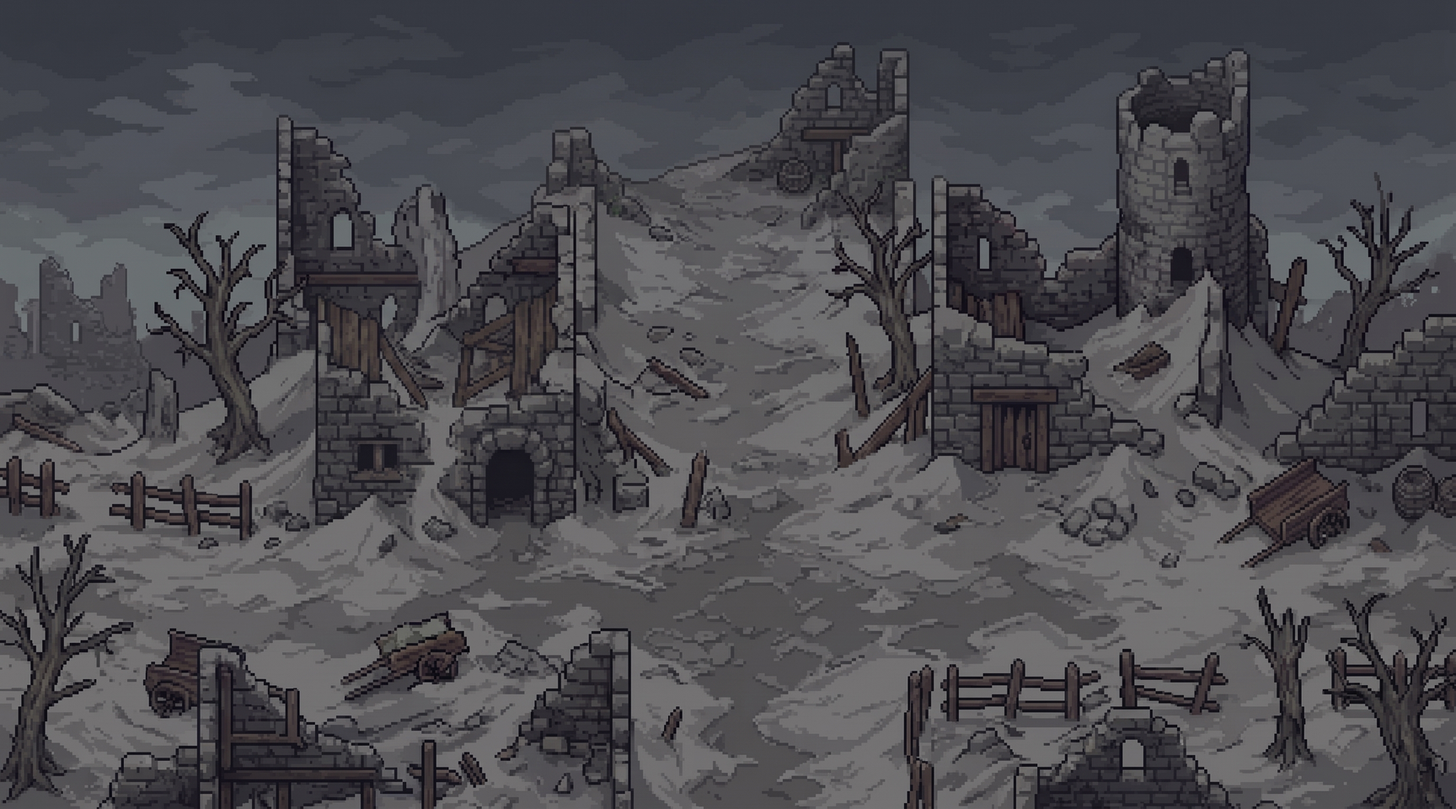
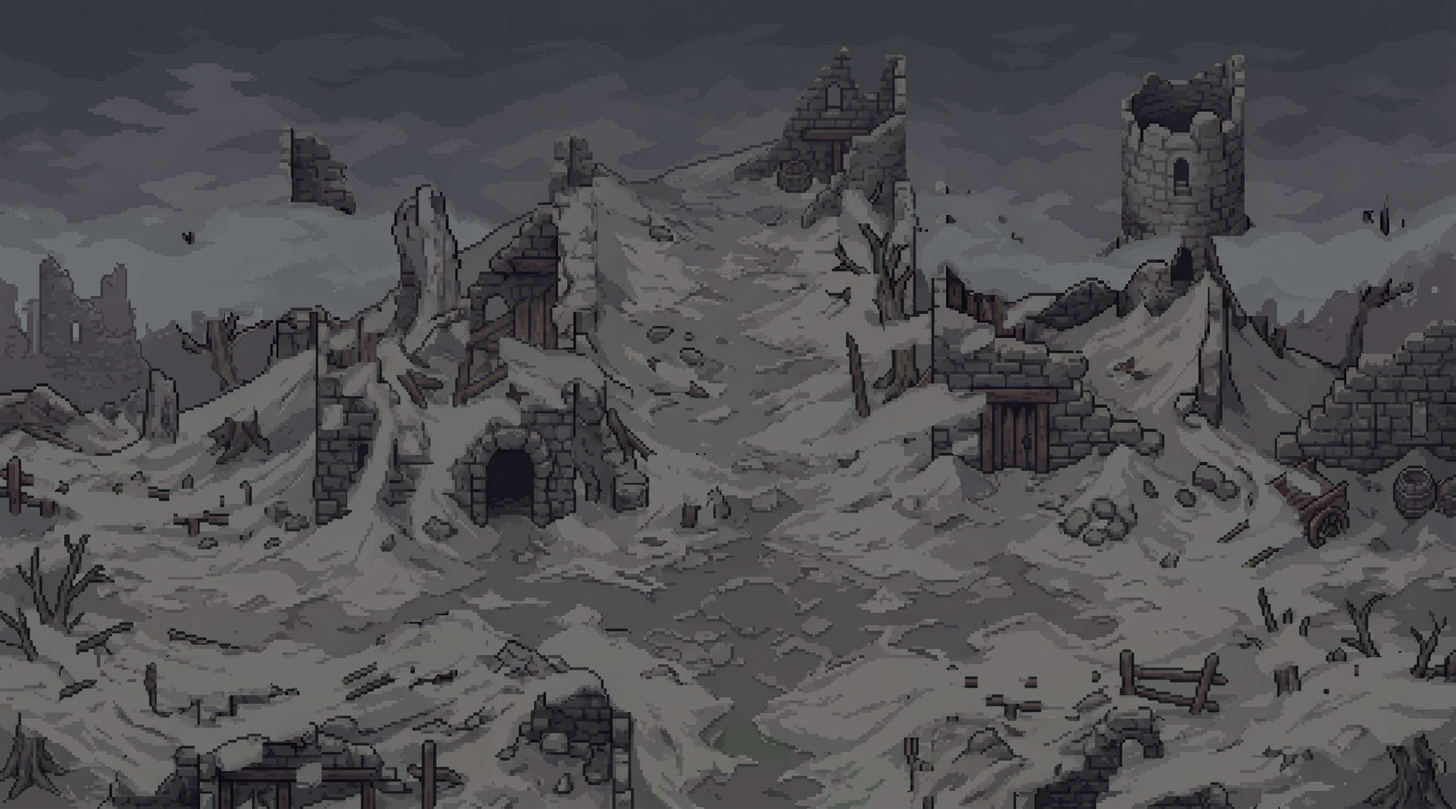
v0.5 — Kül Ovası iki katmandan yeniden kuruldu, Yıkık Ev, ani düşüş
Dış dünya artık elle çizilmiş "+" yollar değil: zemin ve yeşil fonlu prop
katmanı geldiği için çarpışma doğrudan propların alfasından çıkarıldı (108
dikdörtgen, 1134/1620 yürünebilir karo). Yıkıntılar, çitler, ölü ağaçlar
görünen duvarlar; can erimesi de kenarları hissettirmeden sınırlıyor.

yesil_kaldir.py fon rengini KENARDAN okuyordu; bu sayfada kenarlar gökyüzü
olduğu için fonu "koyu gri" sandı ve hiçbir şey temizlenmedi. Artık anahtar
rengi görselin güçlü yeşil piksellerinden ölçülüyor - sığınak sayfasında da
aynı sonucu veriyor.

mekan_kur.py kare parça varsayıyordu ve 16:9 sahneyi 960x960'a sıkıştırıyordu;
parça yüksekliği artık dışarıdan geliyor. Ufuk açılı sahnelerde üstteki gökyüzü
parlaklık testinde "zemin" çıktığı için GOK ile baştan kesiliyor.

Kemerli yıkık kapı girilebilir: arkasında Yıkık Ev var - kül giremediği için
can erimiyor, sandık ödül olarak kondu. Kendi karo seti olmadığından sarnıcın
taş setini ödünç alıyor.

Uçurum sınırları göz kararıyla değil, üstüne yeşil boyanmış referanstan ölçüldü
(21,11)-(27,19). Düşüş 0.9 sn'den 0.5'e indi ve sprite küpsel eğriyle siliniyor:
karakter bir anda kayboluyor.

İkonlar büyütüldü, kalp yerine mevcut iksir ikonu kondu. Sandık, uyku ve
konuşma için üç ikon daha üretildi (3 üretim); konuşma balonu ilk turda düz bir
yuvarlak çıkmıştı, "beyaz, yüksek kontrast" tarifiyle düzeldi.

diff --git a/app/page.tsx b/app/page.tsx
@@ -54,10 +54,10 @@ export default function Home(){
  return <main className="game-shell" aria-label="Kül ve Yemin mobil rol yapma oyunu">
   <canvas ref={canvas} className="world" aria-label={`${ZONES[s.zone].name} oyun alanı`}/><div className="vignette"/>
   {menu?<section className="title-screen"><div className="title-content"><div className="chapter-label"><span/> BİR YERALTI HİKÂYESİ <span/></div><h1>KÜL <i>ve</i> YEMİN</h1><p className="title-sub">Bazı kapılar bir seçimle açılır.</p><div className="menu-buttons">{hasSave?<><button className="primary" disabled={!snapshot.ready} onClick={()=>launch()}><Play size={19} fill="currentColor"/> Yolculuğa devam et <ChevronRight size={19}/></button><button onClick={()=>setConfirmNew(true)} disabled={!snapshot.ready}><Plus size={19}/> Yeni yolculuk</button></>:<button className="primary" onClick={()=>launch(true)} disabled={!snapshot.ready}><Play size={19} fill="currentColor"/>{snapshot.ready?'Yolculuğa başla':'Dünya hazırlanıyor…'}<ChevronRight size={19}/></button>}<div className="menu-secondary"><button onClick={()=>openPanel('settings')}><Settings2 size={18}/> Ayarlar</button><button onClick={()=>openPanel('help')}><BookOpen size={18}/> Rehber</button></div></div></div><footer><button onClick={()=>openPanel('credits')}>BÖLÜM I · SON SIĞINAK</button><span><Smartphone size={15}/> YATAY · DOKUNMATİK</span></footer></section>:<>
-  <header className="hud"><button className="hero-badge" onClick={()=>openPanel('character')} aria-label="Karakter ve yetenekler"><Portrait/><div><b>Gezgin <small>SV. {s.level}</small>{s.points>0&&<em>+{s.points}</em>}</b><div className="health"><span style={{width:`${s.hp/st.maxHp*100}%`}}/></div><div className="hp-row"><small>{Math.ceil(s.hp)} / {st.maxHp}</small><small className="gold"><Coins size={12}/>{s.gold}</small></div><div className="xp-bar"><span style={{width:`${s.level===5?100:(s.xp-XP[s.level-1])/(XP[s.level]-XP[s.level-1])*100}%`}}/></div></div></button><div className="zone-title">{ZONES[s.zone].name}<small>{ZONES[s.zone].danger}</small></div><nav className="hud-nav" aria-label="Oyun menüleri"><button onClick={()=>openPanel('inventory')} aria-label="Heybeyi aç"><UI ad="canta" size={24}/></button><button onClick={()=>openPanel('journal')} aria-label="Görevler ve harita"><UI ad="rulo" size={24}/></button><button onClick={()=>openPanel('pause')} aria-label="Oyunu duraklat"><Pause size={20}/></button></nav></header>
+  <header className="hud"><button className="hero-badge" onClick={()=>openPanel('character')} aria-label="Karakter ve yetenekler"><Portrait/><div><b>Gezgin <small>SV. {s.level}</small>{s.points>0&&<em>+{s.points}</em>}</b><div className="health"><span style={{width:`${s.hp/st.maxHp*100}%`}}/></div><div className="hp-row"><small>{Math.ceil(s.hp)} / {st.maxHp}</small><small className="gold"><Coins size={12}/>{s.gold}</small></div><div className="xp-bar"><span style={{width:`${s.level===5?100:(s.xp-XP[s.level-1])/(XP[s.level]-XP[s.level-1])*100}%`}}/></div></div></button><div className="zone-title">{ZONES[s.zone].name}<small>{ZONES[s.zone].danger}</small></div><nav className="hud-nav" aria-label="Oyun menüleri"><button onClick={()=>openPanel('inventory')} aria-label="Heybeyi aç"><UI ad="canta" size={27}/></button><button onClick={()=>openPanel('journal')} aria-label="Görevler ve harita"><UI ad="rulo" size={27}/></button><button onClick={()=>openPanel('pause')} aria-label="Oyunu duraklat"><Pause size={20}/></button></nav></header>
   {activeQuest&&<button className="quest-hint" onClick={()=>openPanel('journal')}><b><span className="quest-diamond">◆</span>{activeQuest.active?activeQuest.title:'İlk ışık'}</b><span>{!activeQuest.active?'Sığınaktakilerle konuş.':s.zone==='haven'?'Ayrıntılar için dokun.':activeQuest.id==='core'?'Kül kalbini bul.':'Görevini haritada takip et.'}</span></button>}
   {snapshot.tonic>0&&<div className="tonic-badge"><Flame size={15}/> +8 saldırı · {Math.ceil(snapshot.tonic)} sn</div>}
-    {!panel&&<><Joystick engine={engine}/><div className="actions"><div className="utility-actions"><button className="round potion" onClick={(e)=>{(e.currentTarget as HTMLElement)?.blur();engine.current?.useItem('potion');}} aria-label={`Can iksiri iç, ${s.inventory.potion||0} adet`} disabled={!s.inventory.potion}><UI ad="kalp" size={26}/><small>{s.inventory.potion||0}</small></button><button className="round weapon" onClick={(e)=>{(e.currentTarget as HTMLElement)?.blur();engine.current?.toggleWeapon();}} aria-label="Silah değiştir"><Icon name="sword" item={s.equipment.weapon} size={24}/><small>{s.equipment.weapon==='bow'?`YAY (${s.inventory.arrow||0})`:'KILIÇ'}</small></button><button className="round dodge" onClick={(e)=>{(e.currentTarget as HTMLElement)?.blur();engine.current?.dodge();}} aria-label="Kaçın" disabled={snapshot.dodgeCooldown>0}><Wind size={25}/>{snapshot.dodgeCooldown>0&&<small>{snapshot.dodgeCooldown.toFixed(1)}</small>}</button></div><button className="round attack" aria-label="Saldır, basılı tutarak tekrarla" onPointerDown={e=>{e.currentTarget.setPointerCapture(e.pointerId);if(engine.current)engine.current.input.attack=true;}} onPointerUp={()=>{if(engine.current)engine.current.input.attack=false;}} onPointerCancel={()=>{if(engine.current)engine.current.input.attack=false;}} onLostPointerCapture={()=>{if(engine.current)engine.current.input.attack=false;}}><UI ad="saldiri" size={32}/><span>SALDIR</span></button></div>{snapshot.near&&<button className="interact available" onClick={(e)=>{(e.currentTarget as HTMLElement)?.blur();engine.current?.interact();}}>{snapshot.near.type==='npc'?<MessageCircle size={18}/>:<Hand size={18}/>}<span>{snapshot.near.type==='npc'?`${snapshot.near.name} ile konuş`:snapshot.near.asset?.includes('Table')?'Zanaat masasını kullan':snapshot.near.name||'Aç'}</span></button>}</>}
+    {!panel&&<><Joystick engine={engine}/><div className="actions"><div className="utility-actions"><button className="round potion" onClick={(e)=>{(e.currentTarget as HTMLElement)?.blur();engine.current?.useItem('potion');}} aria-label={`Can iksiri iç, ${s.inventory.potion||0} adet`} disabled={!s.inventory.potion}><Icon name="flame" item="potion" size={34}/><small>{s.inventory.potion||0}</small></button><button className="round weapon" onClick={(e)=>{(e.currentTarget as HTMLElement)?.blur();engine.current?.toggleWeapon();}} aria-label="Silah değiştir"><Icon name="sword" item={s.equipment.weapon} size={32}/><small>{s.equipment.weapon==='bow'?`YAY (${s.inventory.arrow||0})`:'KILIÇ'}</small></button><button className="round dodge" onClick={(e)=>{(e.currentTarget as HTMLElement)?.blur();engine.current?.dodge();}} aria-label="Kaçın" disabled={snapshot.dodgeCooldown>0}><Wind size={25}/>{snapshot.dodgeCooldown>0&&<small>{snapshot.dodgeCooldown.toFixed(1)}</small>}</button></div><button className="round attack" aria-label="Saldır, basılı tutarak tekrarla" onPointerDown={e=>{e.currentTarget.setPointerCapture(e.pointerId);if(engine.current)engine.current.input.attack=true;}} onPointerUp={()=>{if(engine.current)engine.current.input.attack=false;}} onPointerCancel={()=>{if(engine.current)engine.current.input.attack=false;}} onLostPointerCapture={()=>{if(engine.current)engine.current.input.attack=false;}}><UI ad="saldiri" size={38}/><span>SALDIR</span></button></div>{snapshot.near&&<button className="interact available" onClick={(e)=>{(e.currentTarget as HTMLElement)?.blur();engine.current?.interact();}}>{snapshot.near.type==='npc'?<UI ad="konusma" size={22}/>:snapshot.near.type==='chest'?<UI ad="sandik" size={22}/>:snapshot.near.type==='yatak'?<UI ad="uyku" size={22}/>:<Hand size={18}/>}<span>{snapshot.near.type==='npc'?`${snapshot.near.name} ile konuş`:snapshot.near.asset?.includes('Table')?'Zanaat masasını kullan':snapshot.near.name||'Aç'}</span></button>}</>}
    <div className={`save-mark ${snapshot.saveStatus==='Kayıt yapılamadı'?'save-error':''}`}><Save size={12}/>{snapshot.saveStatus==='Kayıt yapılamadı'?'Kayıt yapılamıyor':'Cihaza otomatik kayıt'}</div>
    </>}
    {zoneFlash&&<div className="zone-flash" role="status" aria-live="polite">{zoneFlash}</div>}

diff --git a/lib/game/world.ts b/lib/game/world.ts
@@ -9,7 +9,8 @@ export type World={zone:Zone;w:number;h:number;tiles:number[][];entities:Entity[
  ucurumlar:[number,number,number,number][]};
 export function makeWorld(zone:Zone):World{
  const kare=zone==='haven'||zone==='magara';
- const w=zone==='disari'?54:kare?30:46,h=zone==='disari'?30:kare?30:48;
+ const w=zone==='disari'?54:zone==='yikik'?20:kare?30:46,
+  h=zone==='disari'?30:zone==='yikik'?16:kare?30:48;
  const tiles=Array.from({length:h},()=>Array<number>(w).fill(0));
  const room=(x:number,y:number,rw:number,rh:number)=>{for(let j=y;j<y+rh;j++)for(let i=x;i<x+rw;i++)tiles[j][i]=1};
  const entities:Entity[]=[],enemies:EnemySpec[]=[];
@@ -63,16 +64,23 @@ export function makeWorld(zone:Zone):World{
   entities.push({id:'yatak',type:'yatak',x:9.5*16,y:21.7*16,name:'Uyu'});
   chest('havenGift',14,22,[['copper',1],['bow',1],['arrow',25],['tonic',1]]);
   }else if(zone==='disari'){
-  // Kul Ovasi: siginakin ust kapisindan cikilan dis dunya. Yurunebilir alan
-  // ORTADA ARTI seklinde iki yol; gerisi kul. Kenarlara gorunmez duvar koymak
-  // yerine can hizla eriyor, yani oyuncu yolun sonunu goremeden geri donmek
-  // zorunda kaliyor - sinir hissettirilmeden konmus oluyor.
-  // Yollar genisletildi ve kavsak GIRISE yaklastirildi: onceki yerlesimde
-  // oyuncu daha kavsaga varmadan sag/sol kapali oluyordu, can da eridigi icin
-  // cogu zaman hic yatay yola cikamiyordu.
-  room(24,3,7,27);      // dikey kol (7 karo genis)
-  room(2,17,50,6);      // yatay kol (6 karo yuksek, girise 4 karo mesafede)
-  gecis(24,28,31,30,'haven',[15,4]);   // geldigin agiz: uzerine basinca geri
+  // Kul Ovasi: siginakin ust kapisindan cikilan dis dunya (54x30 karo).
+  // Zemin ve carpisma scripts/mekan_kur.py ile iki katmandan cikarildi:
+  // ZEMIN arka planin aydinlik bolgesinden (ustteki 9 satir gokyuzu, bastan
+  // kesildi), blockers prop katmaninin alfasindan. Kenarlara gorunmez duvar
+  // yok; can hizla eridigi icin oyuncu zaten uzaga gidemiyor.
+  const ZEMIN=['000000000000000000000000000000000000000000000000000000','000000000000000000000000000000000000000000000000000000','000000000000000000000000000000000000000000000000000000','000000000000000000000000000000000000000000000000000000','000000000000000000000000000000000000000000000000000000','000000000000000000000000000000000000000000000000000000','000000000000000000000000000000000000000000000000000000','000000000000000000000000000000000000000000000000000000','000000000000000000000000000000000000000000000000000000','111111111111111111111111111111111111111111111111111111','111111111111111111111111111111111111111111111111111111','111111111111111111111111111111111111111111111111111111','111111111111111111111111111111111111111111111111111111','111111111111111111111111111111111111111111111111111111','111111111111111111111111111111111111111111111111111111','111111111111111111111111111111111111111111111111111111','111111111111111111111111111111111111111111111111111111','111111111111111111111111111111111111111111111111111111','111111111111111111111111111111111111111111111111111111','111111111111111111111111111111111111111111111111111111','111111111111111111111111111111111111111111111111111111','111111111111111111111111111111111111111111111111111111','111111111111111111111111111111111111111111111111111111','111111111111111111111111111111111111111111111111111111','111111111111111111111111111111111111111111111111111111','111111111111111111111111111111111111111111111111111111','111111111111111111111111111111111111111111111111111111','111111111111111111111111111111111111111111111111111111','111111111111111111111111111111111111111111111111111111','111111111111111111111111111111111111111111111111111111'];
+  for(let j=0;j<h;j++)for(let i=0;i<w;i++)tiles[j][i]=ZEMIN[j][i]==='1'?1:0;
+  blockers.push([18,9,21,13],[31,9,34,10],[43,9,45,11],[15,10,16,12],[17,10,18,15],[32,10,36,12],[40,10,41,12],[42,10,43,12],[45,10,46,12],[51,10,52,12],[9,11,10,12],[11,11,12,14],[14,11,15,13],[21,11,22,13],[36,11,37,12],[39,11,40,12],[41,11,42,12],[50,11,51,18],[7,12,9,13],[10,12,11,13],[12,12,14,14],[24,12,25,13],[34,12,36,14],[37,12,39,18],[47,12,48,13],[52,12,54,19],[8,13,9,14],[15,13,16,15],[18,13,19,14],[25,13,26,14],[31,13,32,15],[33,13,34,15],[36,13,37,18],[39,13,40,18],[51,13,52,19],[12,14,13,19],[14,14,15,15],[16,14,17,15],[19,14,20,19],[21,14,22,16],[32,14,33,15],[35,14,36,17],[40,14,41,17],[49,14,50,20],[8,15,9,17],[13,15,14,18],[20,15,21,20],[22,15,23,19],[41,15,42,17],[48,15,49,20],[1,16,3,17],[9,16,10,17],[15,16,16,18],[17,16,19,19],[23,16,24,18],[34,16,35,17],[42,16,43,17],[47,16,48,18],[0,17,1,19],[11,17,12,20],[14,17,15,19],[21,17,22,19],[1,18,2,19],[26,18,27,19],[41,18,42,20],[45,18,46,19],[7,19,8,20],[10,19,11,20],[16,19,18,20],[25,19,26,20],[39,19,41,20],[2,20,3,23],[1,21,2,23],[3,21,4,22],[50,22,51,24],[0,23,1,24],[3,23,4,24],[41,24,43,28],[44,24,45,27],[52,24,54,25],[2,25,3,26],[5,25,6,26],[10,25,11,26],[13,25,14,26],[43,25,44,26],[47,25,48,26],[7,26,8,27],[19,26,23,27],[37,26,38,27],[0,27,2,29],[10,27,14,30],[19,27,20,28],[21,27,24,29],[33,27,34,28],[40,27,41,30],[52,27,53,30],[6,28,10,30],[14,28,17,29],[39,28,40,30],[41,28,42,29],[53,28,54,30],[0,29,1,30],[4,29,6,30],[14,29,16,30],[22,29,24,30],[38,29,39,30],[43,29,46,30],[51,29,52,30]);
+  gecis(24,29,31,30,'haven',[15,4]);   // geldigin agiz: uzerine basinca geri
+  // Kemerli yikik kapi: kulun disinda kalan tek kapali mekan.
+  at({id:'yikikKapi',type:'portal',x:19.2,y:19.6,to:'yikik',spawn:[10,13],name:'Yıkığa gir',asset:'gizli'});
+ }else if(zone==='yikik'){
+  // Kemerli kapinin ardindaki tek oda. Kul disarida kaldigi icin burada can
+  // erimiyor - Kul Ovasi'na cikmanin bir odulu olsun diye sandik kondu.
+  room(2,2,16,12);
+  at({id:'yikikCikis',type:'portal',x:10,y:13,to:'disari',spawn:[19,20],name:'Dışarı çık'});
+  chest('yikikSandik',10,4,[['guard',1],['potion',2],['wood',4]],45);
  }else if(zone==='magara'){
   // Sarnic Agzi: siginagin kapagindan inilen ilk karanlik. Tek parca boyali
   // sahne (public/assets/arkaplan/magara.png). Prop katmani YOK, o yuzden
@@ -86,7 +94,10 @@ export function makeWorld(zone:Zone):World{
   gecis(11,27,18,28,'cistern',[7,7]);    // alt tunel: sarnica devam
   // Sagdaki karanlik agiz bir UCURUM: gorselde zemin bitiyor, oraya yurursen
   // asagi dusersin. Karolar bilerek yurunebilir birakildi.
-  ucurum(20,12,25,21);
+  // Sinirlar goz karariyla degil, uzerine yesil boyanmis referanstan olculdu.
+  ucurum(21,11,27,19);
+  // Ucurumun agzina varabilmek icin odanin sag kenari oraya kadar aciliyor.
+  room(19,11,3,8);
  }else if(zone==='cistern'){
   room(3,3,11,11);room(5,12,4,24);room(3,29,12,12);room(12,33,22,4);room(28,27,14,15);room(32,12,4,20);room(27,3,15,12);room(12,6,19,4);room(17,18,9,9);room(8,21,12,3);room(22,23,12,3);
   at({id:'backHaven',type:'portal',x:6,y:5,to:'magara',spawn:[14,25],name:'Yukarı çık'});

diff --git a/lib/game/engine.ts b/lib/game/engine.ts
@@ -41,7 +41,10 @@ export class Engine{
   *  koymak yerine sure basinci var: yolun ucuna varmadan geri donmek gerekiyor. */
  static readonly KUL_HASAR=8;
  private dusus=0;
- static readonly DUSUS=0.9;
+ /** Dusus suresi. Once 0.9 sn'lik yumusak kucuIme vardi; istenen "bir anda
+  *  kaybolmak" oldugu icin kisaltildi ve sprite kupsel egriyle hizla siliniyor
+  *  - ilk 0.15 sn'de gorunmez oluyor, kalan sure olum ekranina gecis. */
+ static readonly DUSUS=0.5;
  private sonImza='';
  private sahneSayac=0;
  private dizSayac=0;private dizX=0;private dizY=0;
@@ -371,10 +374,11 @@ if(!walkable(this.world,s.x,s.y)){[s.x,s.y]=this.world.spawn;}this.camera={x:s.x
   const isFloor=(tx:number,ty:number)=>ty>=0&&ty<this.world.h&&tx>=0&&tx<this.world.w&&this.world.tiles[ty][tx]===1;const y0=Math.floor(cy/16)-1,y1=Math.ceil((cy+this.gorus.boy)/16)+2,x0=Math.floor(cx/16)-1,x1=Math.ceil((cx+this.gorus.en)/16)+2;
   // Dual-grid autotile: her cizilen karo dort dunya hucresinin kesistigi koseye ortalanir;
   // wang_N'de N = kose duvar maskesi (NW=8, NE=4, SW=2, SE=1), wang_0 tam zemin, wang_15 tam duvar.
-  for(let y=y0;y<y1;y++)for(let x=x0;x<x1;x++){const m=(isFloor(x-1,y-1)?0:8)|(isFloor(x,y-1)?0:4)|(isFloor(x-1,y)?0:2)|(isFloor(x,y)?0:1);const tile=this.images[`wang_${this.state.zone}_${m}`];if(tile?.naturalWidth)c.drawImage(tile,x*16-8,y*16-8,16,16);}
+  for(let y=y0;y<y1;y++)for(let x=x0;x<x1;x++){const m=(isFloor(x-1,y-1)?0:8)|(isFloor(x,y-1)?0:4)|(isFloor(x-1,y)?0:2)|(isFloor(x,y)?0:1);// Yikik Ev'in kendi karo seti yok; sarnicin tas setini oduncu aliyor, yoksa oda bombos cizilirdi.
+   const kz=this.state.zone==='yikik'?'cistern':this.state.zone;const tile=this.images[`wang_${kz}_${m}`];if(tile?.naturalWidth)c.drawImage(tile,x*16-8,y*16-8,16,16);}
   // Bolge tonu zeminde; zemine komsu olmayan duvarlar uzaklik hissi icin karartilir (doku gorunsun diye %50).
   for(let y=y0;y<y1;y++)for(let x=x0;x<x1;x++){if(isFloor(x,y)){c.fillStyle=this.state.zone==='forge'?'#21122118':'#10213310';c.fillRect(x*16,y*16,16,16);}else if(![[0,1],[0,-1],[-1,0],[1,0],[1,1],[-1,-1],[1,-1],[-1,1]].some(([dx,dy])=>isFloor(x+dx,y+dy))){c.fillStyle='#060a1280';c.fillRect(x*16,y*16,16,16);}}}
-  for(const e of this.world.entities){if(e.type==='portal'){this.sprite('portal',e.x,e.y,0,22,32);if(e.id==='returnHaven'&&!this.state.killed.includes('warden'))continue;const glow=c.createRadialGradient(e.x,e.y,1,e.x,e.y,22);glow.addColorStop(0,'#74c8ef30');glow.addColorStop(1,'#74c8ef00');c.fillStyle=glow;c.fillRect(e.x-22,e.y-22,44,44);this.label(e.name!,e.x,e.y+13,'#b6dbe9');}if(e.type==='trap')this.sprite('trap',e.x,e.y,this.trapActive(e)?4:0,17,17);}
+  for(const e of this.world.entities){if(e.type==='portal'){const gizli=e.asset==='gizli';if(!gizli)this.sprite('portal',e.x,e.y,0,22,32);if(e.id==='returnHaven'&&!this.state.killed.includes('warden'))continue;if(gizli){this.label(e.name!,e.x,e.y+13,'#c9bda4');continue;}const glow=c.createRadialGradient(e.x,e.y,1,e.x,e.y,22);glow.addColorStop(0,'#74c8ef30');glow.addColorStop(1,'#74c8ef00');c.fillStyle=glow;c.fillRect(e.x-22,e.y-22,44,44);this.label(e.name!,e.x,e.y+13,'#b6dbe9');}if(e.type==='trap')this.sprite('trap',e.x,e.y,this.trapActive(e)?4:0,17,17);}
   const actors:({y:number;draw:()=>void})[]=this.world.entities.filter(e=>e.type!=='portal'&&e.type!=='trap').map(e=>({y:e.y,draw:()=>{
    if(e.type==='decor'){this.sprite(e.asset!,e.x,e.y);if(e.name)this.label(e.name,e.x,e.y-20,'#dfc28e');return;}
    if(e.type==='fire'){this.sprite('fire',e.x,e.y,Math.floor(time*8)%8,32,32,false,e.s??1);return;}
@@ -390,8 +394,8 @@ if(!walkable(this.world,s.x,s.y)){[s.x,s.y]=this.world.spawn;}this.camera={x:s.x
   }}));
   for(const m of this.mobs)actors.push({y:m.y,draw:()=>{c.fillStyle='#04091270';c.beginPath();c.ellipse(m.x,m.y+1,(m.boss?13:8)*OYUNCU_OLCEK,2.6*OYUNCU_OLCEK,0,0,7);c.fill();if(m.windup>0){c.strokeStyle='#ef8766';c.lineWidth=1;c.beginPath();c.arc(m.x,m.y,m.boss?36:14,0,Math.PI*2);c.stroke();}const dx=this.state.x-m.x,dy=this.state.y-m.y;const dir=Math.abs(dx)>Math.abs(dy)?'S':dy<0?'U':'D';this.sprite(`enemies${m.kind}${dir}${m.windup>0?'Attack':m.hurt>0?'Hurt':'Walk'}`,m.x,m.y,Math.floor(time*7),32,32,dir==='S'&&dx<0,(m.boss?1.7:1)*OYUNCU_OLCEK);if(m.hp<m.max||m.boss){const w=m.boss?34:16;c.fillStyle='#190e18';c.fillRect(m.x-w/2,m.y-(m.boss?38:23),w,2);c.fillStyle='#ce7778';c.fillRect(m.x-w/2,m.y-(m.boss?38:23),w*m.hp/m.max,2);if(m.boss)this.label('KÜL BEKÇİSİ',m.x,m.y-43,'#efac8a');}}});
    actors.push({y:this.state.y,draw:()=>{const s=this.state;c.fillStyle='#02081280';c.beginPath();c.ellipse(s.x,s.y+1,8.5*OYUNCU_OLCEK,2.8*OYUNCU_OLCEK,0,0,7);c.fill();const action=this.slash>0?'Attack':this.moving&&!this.paused?'Walk':'Idle';// Dusus: sprite kucule kucule asagi kayiyor, boslugun icine iniyormus gibi.
-  const dk=this.dusus>0?this.dusus/Engine.DUSUS:1;
-  this.sprite(this.kit()+this.direction+action,s.x,s.y+(1-dk)*11,action==='Walk'?Math.floor(this.yol/Engine.ADIM):Math.floor(time*(action==='Attack'?16:5)),32,32,this.direction==='S'&&this.flip,OYUNCU_OLCEK*(.22+.78*dk),this.invulnerable>0&&Math.floor(time*18)%2===0?.45:1);if(this.slash>0){c.strokeStyle='#f5db9ac9';c.lineWidth=1.5;const angle=this.direction==='S'?(this.flip?Math.PI:0):this.direction==='U'?-Math.PI/2:Math.PI/2;c.beginPath();c.arc(s.x,s.y-5*OYUNCU_OLCEK,23*OYUNCU_OLCEK,angle-1.1,angle+1.1);c.stroke();}}});
+  const dk=this.dusus>0?Math.pow(this.dusus/Engine.DUSUS,3):1;
+  this.sprite(this.kit()+this.direction+action,s.x,s.y+(1-dk)*11,action==='Walk'?Math.floor(this.yol/Engine.ADIM):Math.floor(time*(action==='Attack'?16:5)),32,32,this.direction==='S'&&this.flip,OYUNCU_OLCEK*(.05+.95*dk),this.invulnerable>0&&Math.floor(time*18)%2===0?.45:1);if(this.slash>0){c.strokeStyle='#f5db9ac9';c.lineWidth=1.5;const angle=this.direction==='S'?(this.flip?Math.PI:0):this.direction==='U'?-Math.PI/2:Math.PI/2;c.beginPath();c.arc(s.x,s.y-5*OYUNCU_OLCEK,23*OYUNCU_OLCEK,angle-1.1,angle+1.1);c.stroke();}}});
   actors.sort((a,b)=>a.y-b.y).forEach(a=>a.draw());
   c.fillStyle=this.state.zone==='haven'?'#060e1924':'#070b1c42';c.fillRect(cx,cy,this.gorus.en,this.gorus.boy);
   for(const e of this.world.entities.filter(e=>e.type==='fire'||e.type==='core')){if(Math.abs(e.x-this.state.x)>230||Math.abs(e.y-this.state.y)>160)continue;const radius=48+Math.sin(time*3+e.x)*3;const glow=c.createRadialGradient(e.x,e.y-6,0,e.x,e.y-6,radius);glow.addColorStop(0,'#f7af3936');glow.addColorStop(.35,'#ee8e1815');glow.addColorStop(1,'#ee8e1800');c.fillStyle=glow;c.fillRect(e.x-radius,e.y-radius-6,radius*2,radius*2);}

diff --git a/lib/game/data.ts b/lib/game/data.ts
@@ -1,8 +1,8 @@
 /** Oyun surumu. Her yayina cikan degisiklikte 0.1 artar: 0.1, 0.2 ... 0.9,
  *  sonra 1.0, 1.1 diye devam eder. Ekranin sol altinda gorunur. */
-export const SURUM = '0.4';
+export const SURUM = '0.5';
 
-export type Zone = 'haven' | 'disari' | 'magara' | 'cistern' | 'forge';
+export type Zone = 'haven' | 'disari' | 'yikik' | 'magara' | 'cistern' | 'forge';
 export type ItemId = 'rusty'|'guard'|'ember'|'blood'|'bow'|'leather'|'chain'|'ash'|'copper'|'life'|'wind'|'potion'|'tonic'|'medicine'|'ledger'|'core'|'wood'|'torch'|'arrow';
 export type Item = {id:ItemId;name:string;kind:'weapon'|'armor'|'ring'|'consumable'|'quest';description:string;rarity:'Sıradan'|'Nadir'|'Eşsiz'|'Görev';icon:string;attack?:number;defense?:number;hp?:number;price:number};
 export const ITEMS:Record<ItemId,Item>={
@@ -26,7 +26,7 @@ export const ITEMS:Record<ItemId,Item>={
  ledger:{id:'ledger',name:'Kayıp defter',kind:'quest',description:'Sığınağın erzak kayıtları. Alf bunu bekliyor.',rarity:'Görev',icon:'book',price:0},
  core:{id:'core',name:'Kül kalbi',kind:'quest',description:'Sığınağın altında atan güç. Undur ne yapılacağını biliyor.',rarity:'Görev',icon:'gem',price:0},
 };
-export const ZONES:Record<Zone,{name:string;subtitle:string;danger:string}>={haven:{name:'Son Sığınak',subtitle:'Ateşin hâlâ yandığı yer',danger:'Güvenli bölge'},disari:{name:'Kül Ovası',subtitle:'Örtünün altında kalan dünya',danger:'Ölümcül · uzun kalma'},magara:{name:'Sarnıç Ağzı',subtitle:'Sığınağın altındaki ilk karanlık',danger:'Tenha'},cistern:{name:'Unutulmuş Sarnıç',subtitle:'Taşların hatırladığı sırlar',danger:'Seviye 1–3'},forge:{name:'Kül Ocağı',subtitle:'Yeminin başladığı yer',danger:'Seviye 3–5'}};
+export const ZONES:Record<Zone,{name:string;subtitle:string;danger:string}>={haven:{name:'Son Sığınak',subtitle:'Ateşin hâlâ yandığı yer',danger:'Güvenli bölge'},disari:{name:'Kül Ovası',subtitle:'Örtünün altında kalan dünya',danger:'Ölümcül · uzun kalma'},yikik:{name:'Yıkık Ev',subtitle:'Külün giremediği tek oda',danger:'Kapalı · güvenli'},magara:{name:'Sarnıç Ağzı',subtitle:'Sığınağın altındaki ilk karanlık',danger:'Tenha'},cistern:{name:'Unutulmuş Sarnıç',subtitle:'Taşların hatırladığı sırlar',danger:'Seviye 1–3'},forge:{name:'Kül Ocağı',subtitle:'Yeminin başladığı yer',danger:'Seviye 3–5'}};
 export interface State {version:1;started:boolean;zone:Zone;x:number;y:number;hp:number;xp:number;level:number;gold:number;points:number;skills:{power:number;vigor:number;agility:number};inventory:Partial<Record<ItemId,number>>;equipment:{weapon:ItemId;armor:ItemId;ring:ItemId|null};flags:Record<string,boolean|string>;opened:string[];killed:string[];journal:string[];playtime:number;ending:string|null;}
 export const XP=[0,100,260,490,790];
 export const newState=():State=>({version:1,started:true,zone:'haven',x:15*16,y:14*16,hp:100,xp:0,level:1,gold:18,points:0,skills:{power:0,vigor:0,agility:0},inventory:{rusty:1,leather:1,potion:3},equipment:{weapon:'rusty',armor:'leather',ring:null},flags:{},opened:[],killed:[],journal:['Son Sığınak’a vardın. Önce şifacı Mirna ile konuş.'],playtime:0,ending:null});

diff --git a/app/globals.css b/app/globals.css
@@ -429,7 +429,11 @@ h1,h2,h3,.zone-title,.quest-hint b,.chapter-label,.menu-buttons button{font-fami
 .round.weapon img{transform:translateY(-6px)}
 .round.potion img{transform:translateY(-5px)}
 @media (max-height:560px){
-  .round img{width:18px!important;height:18px!important;transform:translateY(-6px)}
-  .attack img{width:24px!important;height:24px!important}
-  .hud button img{width:20px!important;height:20px!important}
+  .round img{width:22px!important;height:22px!important;transform:translateY(-7px)}
+  .attack img{width:28px!important;height:28px!important}
+  .hud button img{width:22px!important;height:22px!important}
 }
+
+/* Etkilesim dugmesindeki piksel ikon metinle ayni hizada dursun */
+.interact img{image-rendering:pixelated;flex-shrink:0}
+@media (max-height:560px){.interact img{width:18px!important;height:18px!important}}

diff --git a/scripts/mekan_kur.py b/scripts/mekan_kur.py
@@ -37,6 +37,9 @@ ZEMIN_ISIK = 28           # bundan koyu = tuvalin disi (siyah kenar)
 # kapatiyordu. Mekana gore elle tutulan tek liste - otomatik cikarim degil,
 # seviye tasarimi karari.
 GECITLER = {'haven': [(12, 0, 19, 8), (12, 22, 19, 30)]}
+# Ufuk acili sahnelerde ustteki gokyuzu parlaklik testinde "zemin" cikiyor;
+# bu satirin ustu bastan yurunemez sayilir.
+GOK = {'disari': 9}
 KORIDOR = []
 
 
@@ -130,17 +133,19 @@ def dikdortgenler(grid):
     return kutular
 
 
-def dikey_ekle(yollar, kare_px):
-    """Kare parcalari YUKARIDAN ASAGIYA ust uste ekler.
+def dikey_ekle(yollar, en_px, parca_px):
+    """Parcalari YUKARIDAN ASAGIYA ust uste ekler.
 
-    Her parca once kendi kare olcusune indirgenir, sonra birlestirilir; onceden
-    birlestirip tek seferde olceklemek parcalarin oranini bozardi.
+    Her parca once kendi olcusune indirgenir, sonra birlestirilir; onceden
+    birlestirip tek seferde olceklemek parcalarin oranini bozardi. Parca
+    yuksekligi disaridan verilir cunku kaynak her zaman KARE degil - dis
+    dunya sahnesi 16:9 geldi ve kare varsayimi tuvali 960x960'a sikistiriyordu.
     """
-    parcalar = [Image.open(y).convert('RGBA').resize((kare_px, kare_px), Image.LANCZOS)
+    parcalar = [Image.open(y).convert('RGBA').resize((en_px, parca_px), Image.LANCZOS)
                 for y in yollar]
-    tuval = Image.new('RGBA', (kare_px, kare_px * len(parcalar)), (0, 0, 0, 0))
+    tuval = Image.new('RGBA', (en_px, parca_px * len(parcalar)), (0, 0, 0, 0))
     for i, im in enumerate(parcalar):
-        tuval.paste(im, (0, i * kare_px))
+        tuval.paste(im, (0, i * parca_px))
     return tuval
 
 
@@ -150,13 +155,12 @@ def main(bg_yolu, prop_yolu, ad='haven'):
     propler = [y for y in prop_yolu.split(',') if y]
     if len(bgler) != len(propler):
         sys.exit(f'parca sayilari tutmuyor: {len(bgler)} arkaplan / {len(propler)} prop')
-    NY = PARCA_KARO * len(bgler)
-    kare = PARCA_KARO * KARO
-    W, H = NX * KARO, NY * KARO
     if len(bgler) > 1:
-        print(f'{len(bgler)} kare parca ust uste ekleniyor -> {NX}x{NY} karo')
-    bg = dikey_ekle(bgler, kare)
-    prop = dikey_ekle(propler, kare)
+        NY = PARCA_KARO * len(bgler)
+        print(f'{len(bgler)} parca ust uste ekleniyor -> {NX}x{NY} karo')
+    W, H = NX * KARO, NY * KARO
+    bg = dikey_ekle(bgler, W, H // len(bgler))
+    prop = dikey_ekle(propler, W, H // len(bgler))
     sahne = Image.alpha_composite(bg, prop)
     os.makedirs(f'{ROOT}/public/assets/arkaplan', exist_ok=True)
     sahne.convert('RGB').save(f'{ROOT}/public/assets/arkaplan/{ad}.png')
@@ -166,6 +170,10 @@ def main(bg_yolu, prop_yolu, ad='haven'):
     lum = np.asarray(bg.convert('L')).astype(float)
     zemin = karolara(lum > ZEMIN_ISIK)
     engel = karolara(ayak_izi(np.asarray(prop)[..., 3]))
+    gok = GOK.get(ad)
+    if gok:
+        zemin[:gok] = False
+        print(f'  gokyuzu kesildi: ilk {gok} karo satiri yurunemez')
     engel &= zemin                      # zemin disinda engel aramaya gerek yok
     # Koridor agizlarindaki dekoratif taslar gecisi kapatiyordu; iki gecit
     # bilerek acik tutuluyor (seviye tasarimi karari, otomatik cikarim degil).
@@ -205,6 +213,8 @@ def main(bg_yolu, prop_yolu, ad='haven'):
 if __name__ == '__main__':
     # kullanim: mekan_kur.py <arkaplan[,arkaplan2]> <prop[,prop2]> [ad]
     #   kare parcalar virgulle, yukaridan asagiya sirayla verilir
+    if len(sys.argv) > 4:
+        NX, NY = (int(v) for v in sys.argv[4].lower().split('x'))
     main(sys.argv[1] if len(sys.argv) > 1 else f'{ROOT}/background.jpeg',
          sys.argv[2] if len(sys.argv) > 2 else f'{ROOT}/generated/prop/prop_saydam.png',
          sys.argv[3] if len(sys.argv) > 3 else 'haven')

diff --git a/scripts/yesil_kaldir.py b/scripts/yesil_kaldir.py
@@ -85,8 +85,14 @@ def main(prop_yolu, bg_yolu, hedef_dir):
     alfa = np.clip((T_HI - yes) / (T_HI - T_LO), 0, 1)
 
 
-    key = np.array([np.median(np.concatenate([p[:24].reshape(-1, 3), p[-24:].reshape(-1, 3)])[:, c])
-                    for c in range(3)])
+    # Fon rengi KENARDAN degil, gorselin guclu yesil piksellerinden olculur.
+    # Kenar orneklemesi sigginak sayfasinda calisiyordu cunku fon tuvalin
+    # tamamiydi; dis dunya sayfasinda kenarlar gokyuzu, yesil ortada kaliyor
+    # ve kenardan bakinca fon "koyu gri" sanildi.
+    guclu = yesillik(p) > 60
+    if guclu.sum() < p[..., 0].size * .01:
+        sys.exit('yeterince yesil fon bulunamadi')
+    key = np.median(p[guclu], 0)
     print(f'  fon rengi = {key.round(0)}')
     rgb = spill_sil(p, yes, key)
     sizinti = genis_lekeler((alfa > .5) & sizinti_maskesi(p, bg, key))
